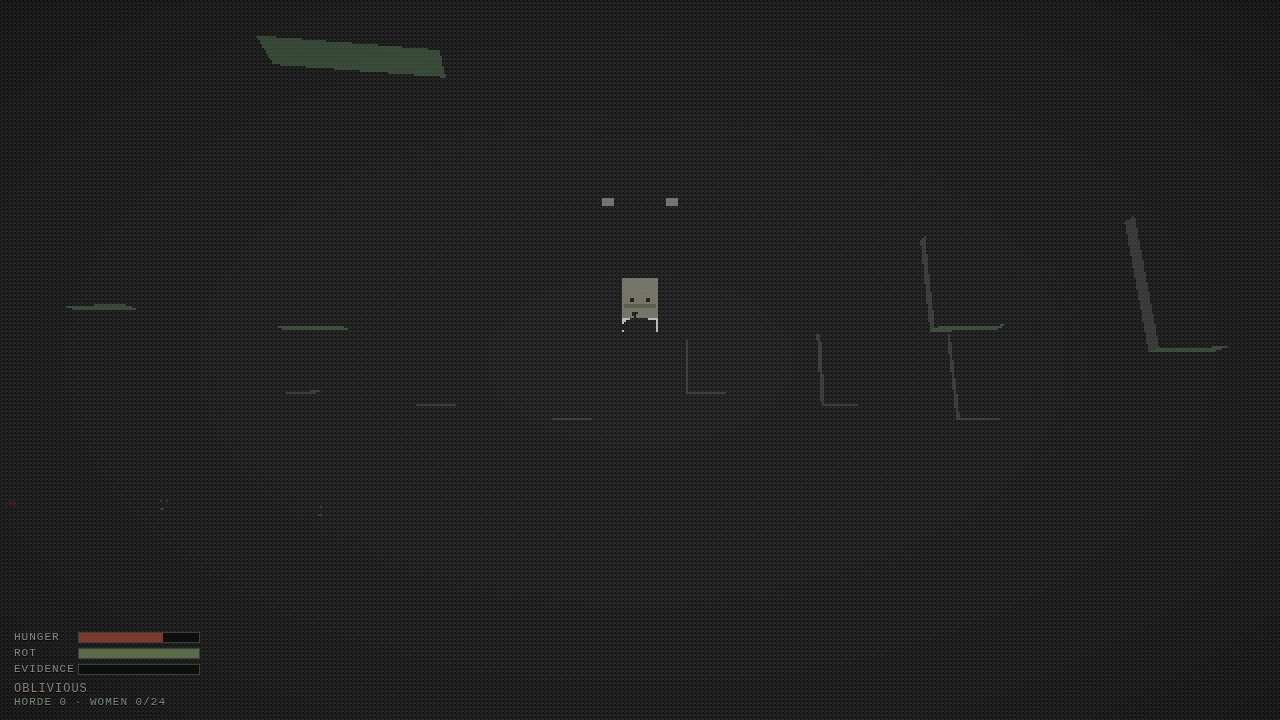
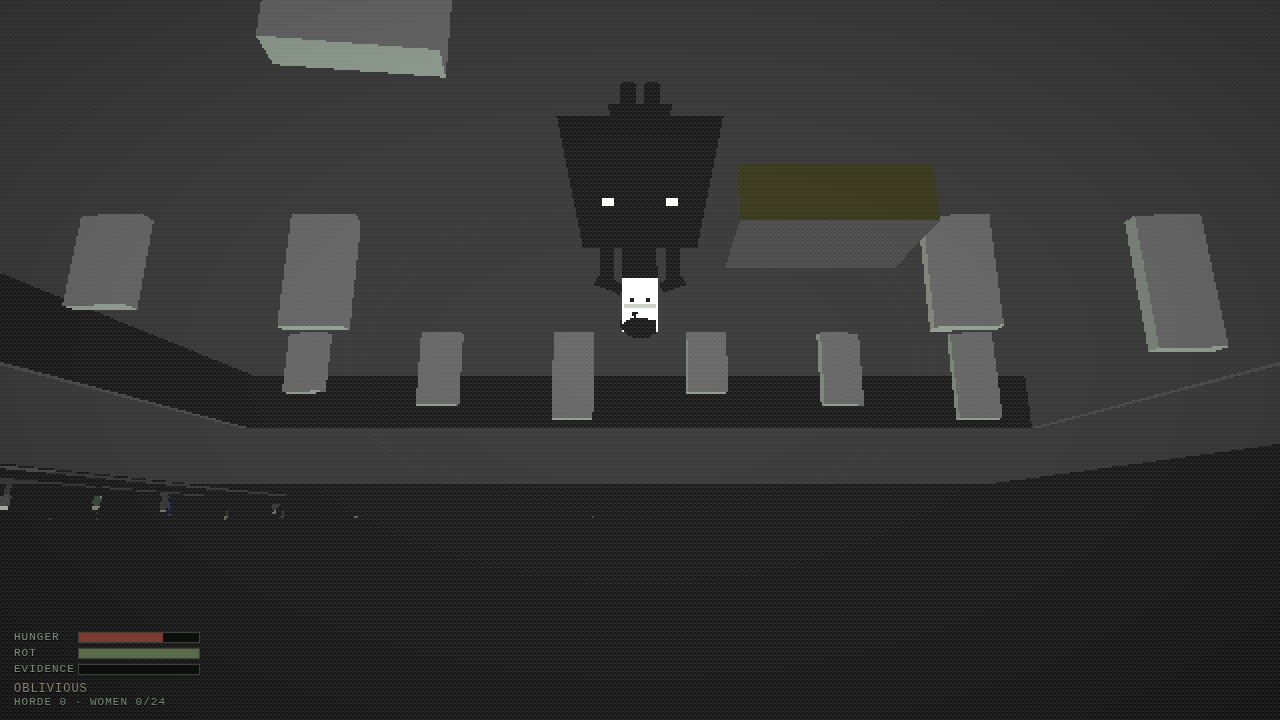
Light the scene for readability (ambient 5.0, moon 3.6, fill, exposure 3.0): screen-luma 34.7 -> ~70; add scripts/luma.mjs proper PNG analyzer; smoke.mjs WebGL2-only (SwiftShader WebGPU cant present)

diff --git a/src/engine/post.js b/src/engine/post.js
@@ -53,15 +53,18 @@ export function createPostPipeline(renderer, scene, camera) {
       renderer.render(scene, camera);
       renderer.setRenderTarget(null);
       renderer.render(quadScene, quadCam);
-      // debug: probe center of RT once
+      // debug: probe center of the DEFAULT framebuffer (what's on screen)
       if (!window.__probeDone) {
         window.__probeDone = true;
-        renderer.readRenderTargetPixelsAsync(rt, rt.width / 2 | 0, rt.height / 2 | 0, 8, 8, new Uint8Array(4 * 64))
-          .then((buf) => {
-            let m = 0; for (let i = 0; i < buf.length; i += 4) m += buf[i] + buf[i + 1] + buf[i + 2];
-            console.info('[probe] rt-luma', (m / (3 * 64)).toFixed(1));
-          })
-          .catch((e) => console.info('[probe] rt-luma failed:', e.message));
+        const gl = renderer.getContext();
+        if (gl && gl.readPixels) {
+          const px = new Uint8Array(4 * 64);
+          gl.readPixels(gl.drawingBufferWidth / 2 | 0, gl.drawingBufferHeight / 2 | 0, 8, 8, gl.RGBA, gl.UNSIGNED_BYTE, px);
+          let m = 0; for (let i = 0; i < px.length; i += 4) m += px[i] + px[i + 1] + px[i + 2];
+          console.info('[probe] screen-luma', (m / (3 * 64)).toFixed(1));
+        } else {
+          console.info('[probe] no gl context');
+        }
       }
     },
     setDither: (v) => { amount.value = v; },

diff --git a/src/main.js b/src/main.js
@@ -27,11 +27,11 @@ window.addEventListener('resize', () => {
 });
 
 // lighting: cold night town — must READ like a lit night scene, not a void
-scene.add(new THREE.AmbientLight(0x4a5450, 3.4));
-const moon = new THREE.DirectionalLight(0x8a968a, 2.4);
+scene.add(new THREE.AmbientLight(0x6a7470, 5.0));
+const moon = new THREE.DirectionalLight(0xaab6aa, 3.6);
 moon.position.set(-4, 8, -3);
 scene.add(moon);
-const fill = new THREE.DirectionalLight(0x3a4438, 1.1);
+const fill = new THREE.DirectionalLight(0x5a6458, 1.8);
 fill.position.set(5, 3, 6);
 scene.add(fill);
 

diff --git a/src/config.js b/src/config.js
@@ -51,8 +51,8 @@ export const CFG = {
     snapVertex: 1 / 220,       // vertex jitter quantization
     fogColor: 0x0a0b0c,
     fogDensity: 0.022,
-    gradeTint: [1.55, 1.62, 1.46],  // desaturated, faint sick green
-    exposure: 2.1,                   // lift for readable silhouettes
+    gradeTint: [2.2, 2.3, 2.1],    // desaturated, faint sick green
+    exposure: 3.0,                   // lift for readable silhouettes
     ditherAmount: 1.0,
   },
   npc: {
